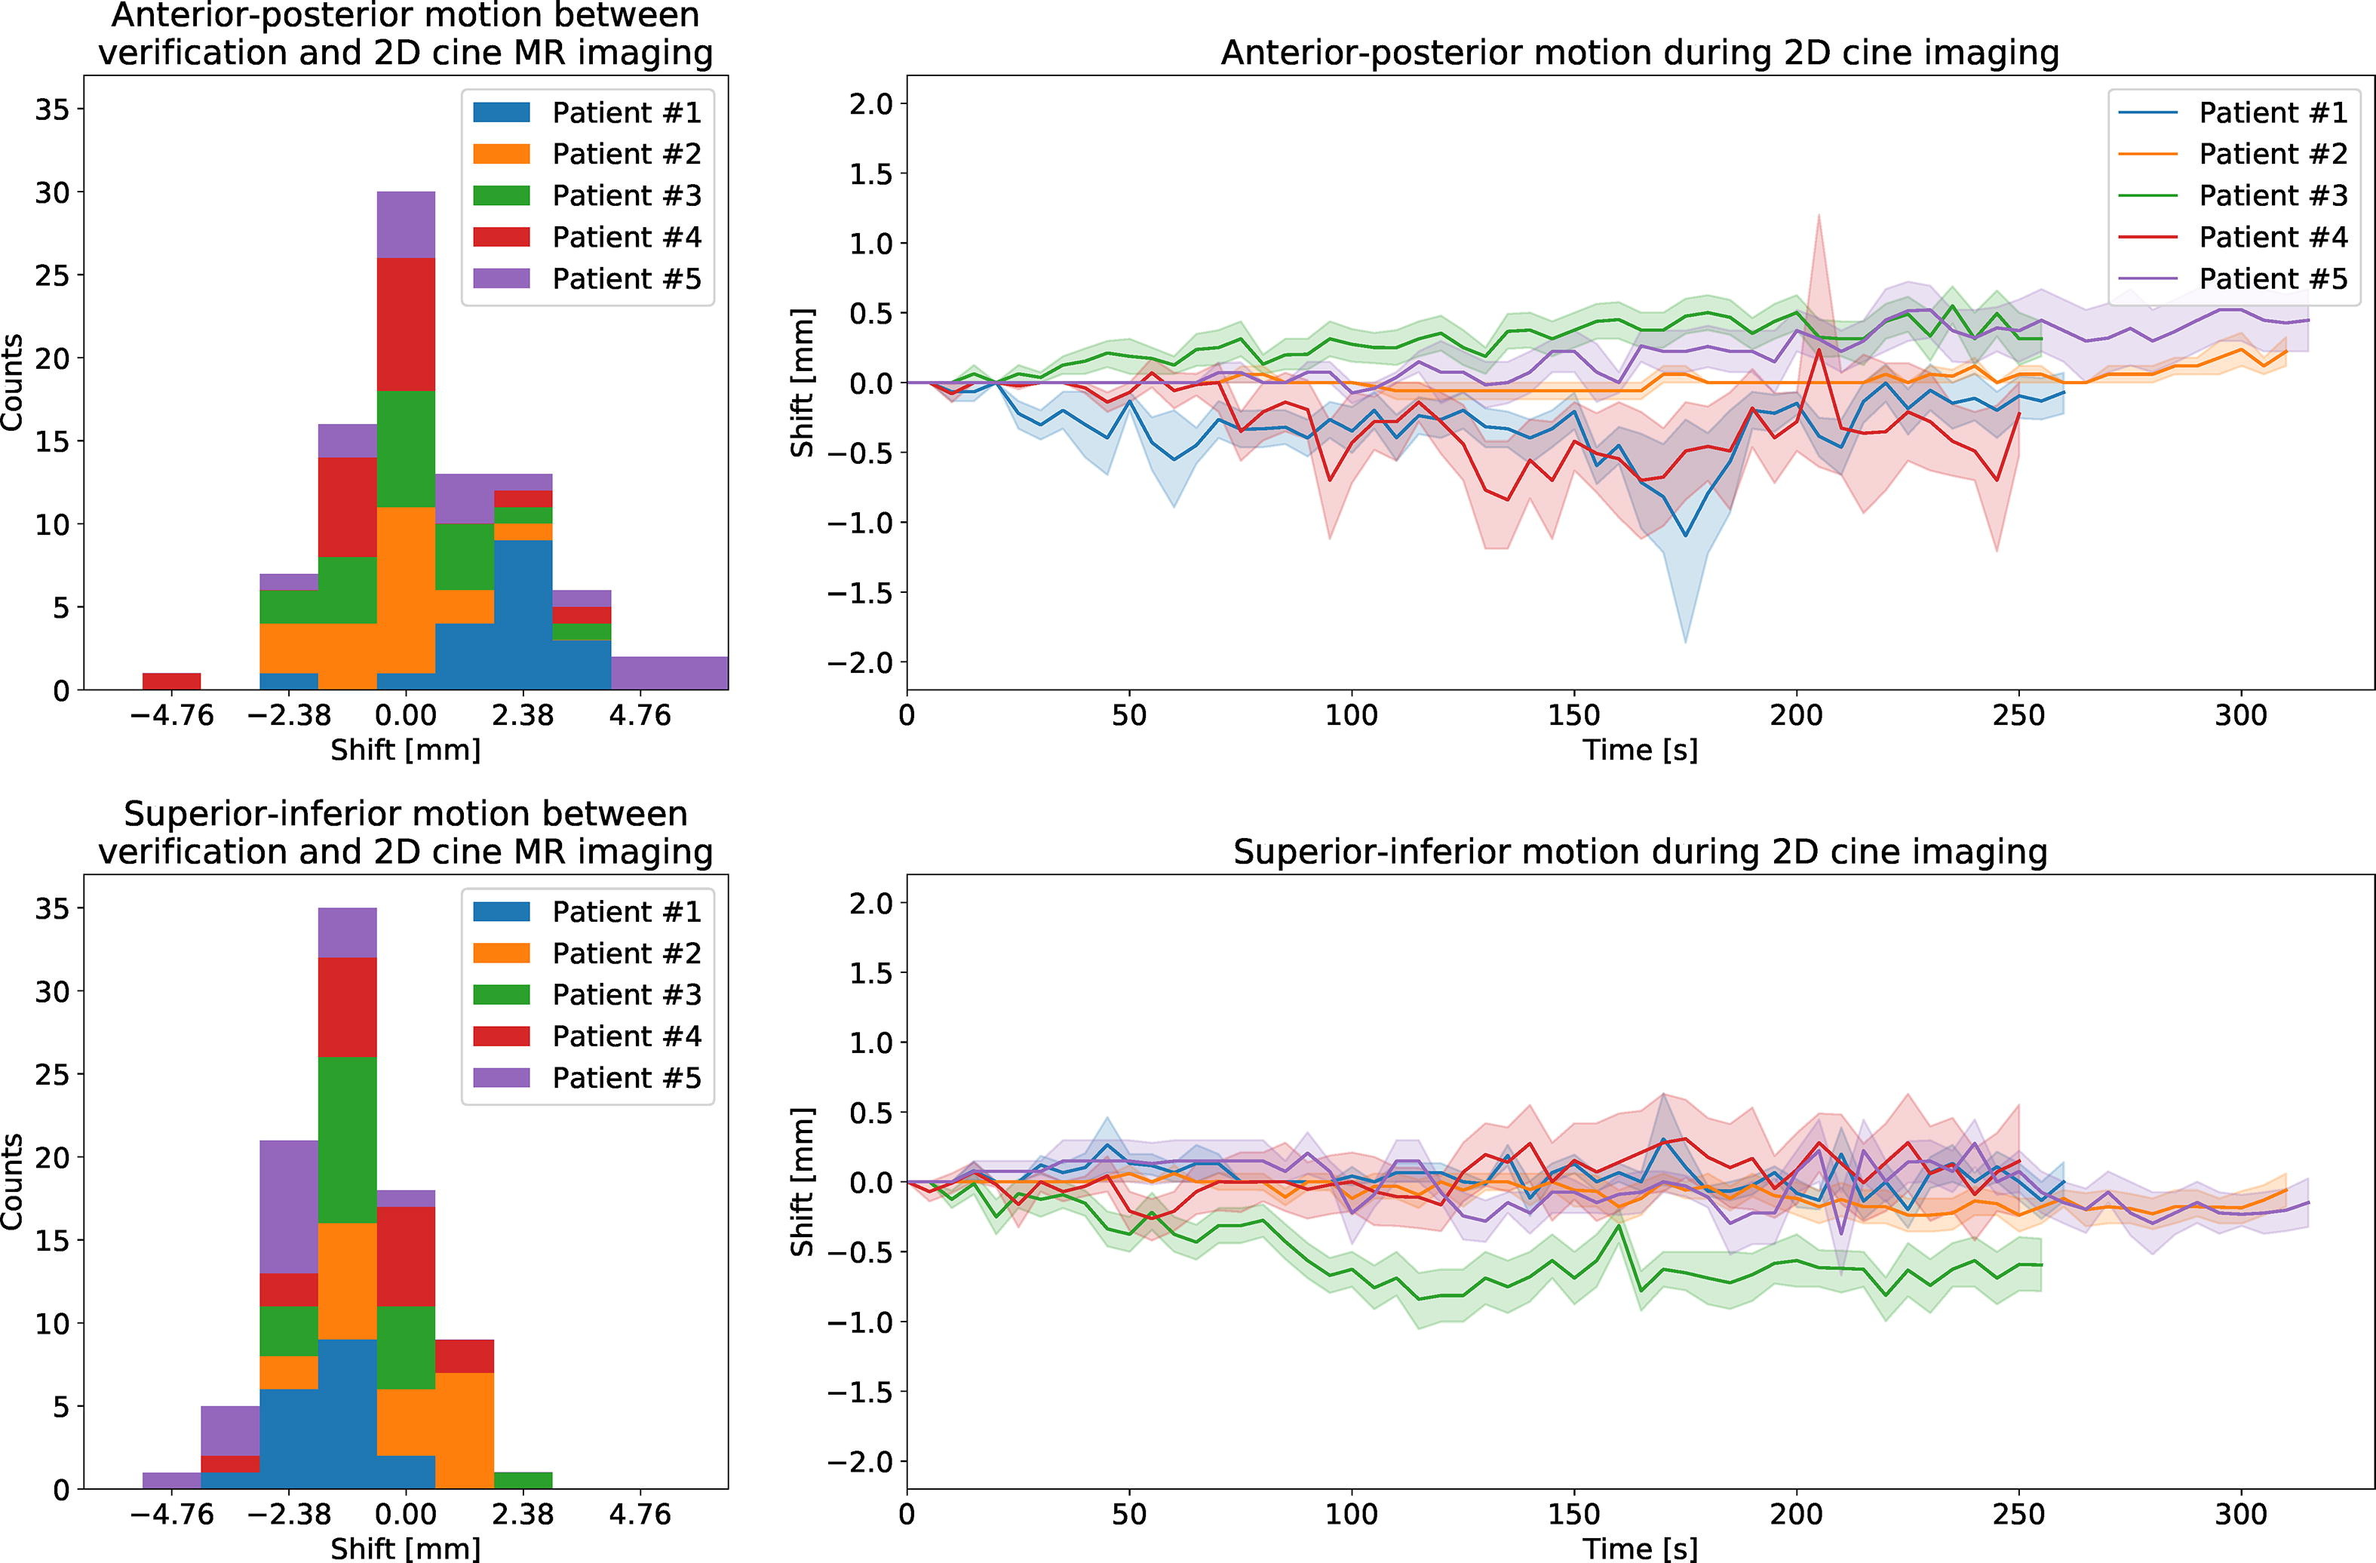
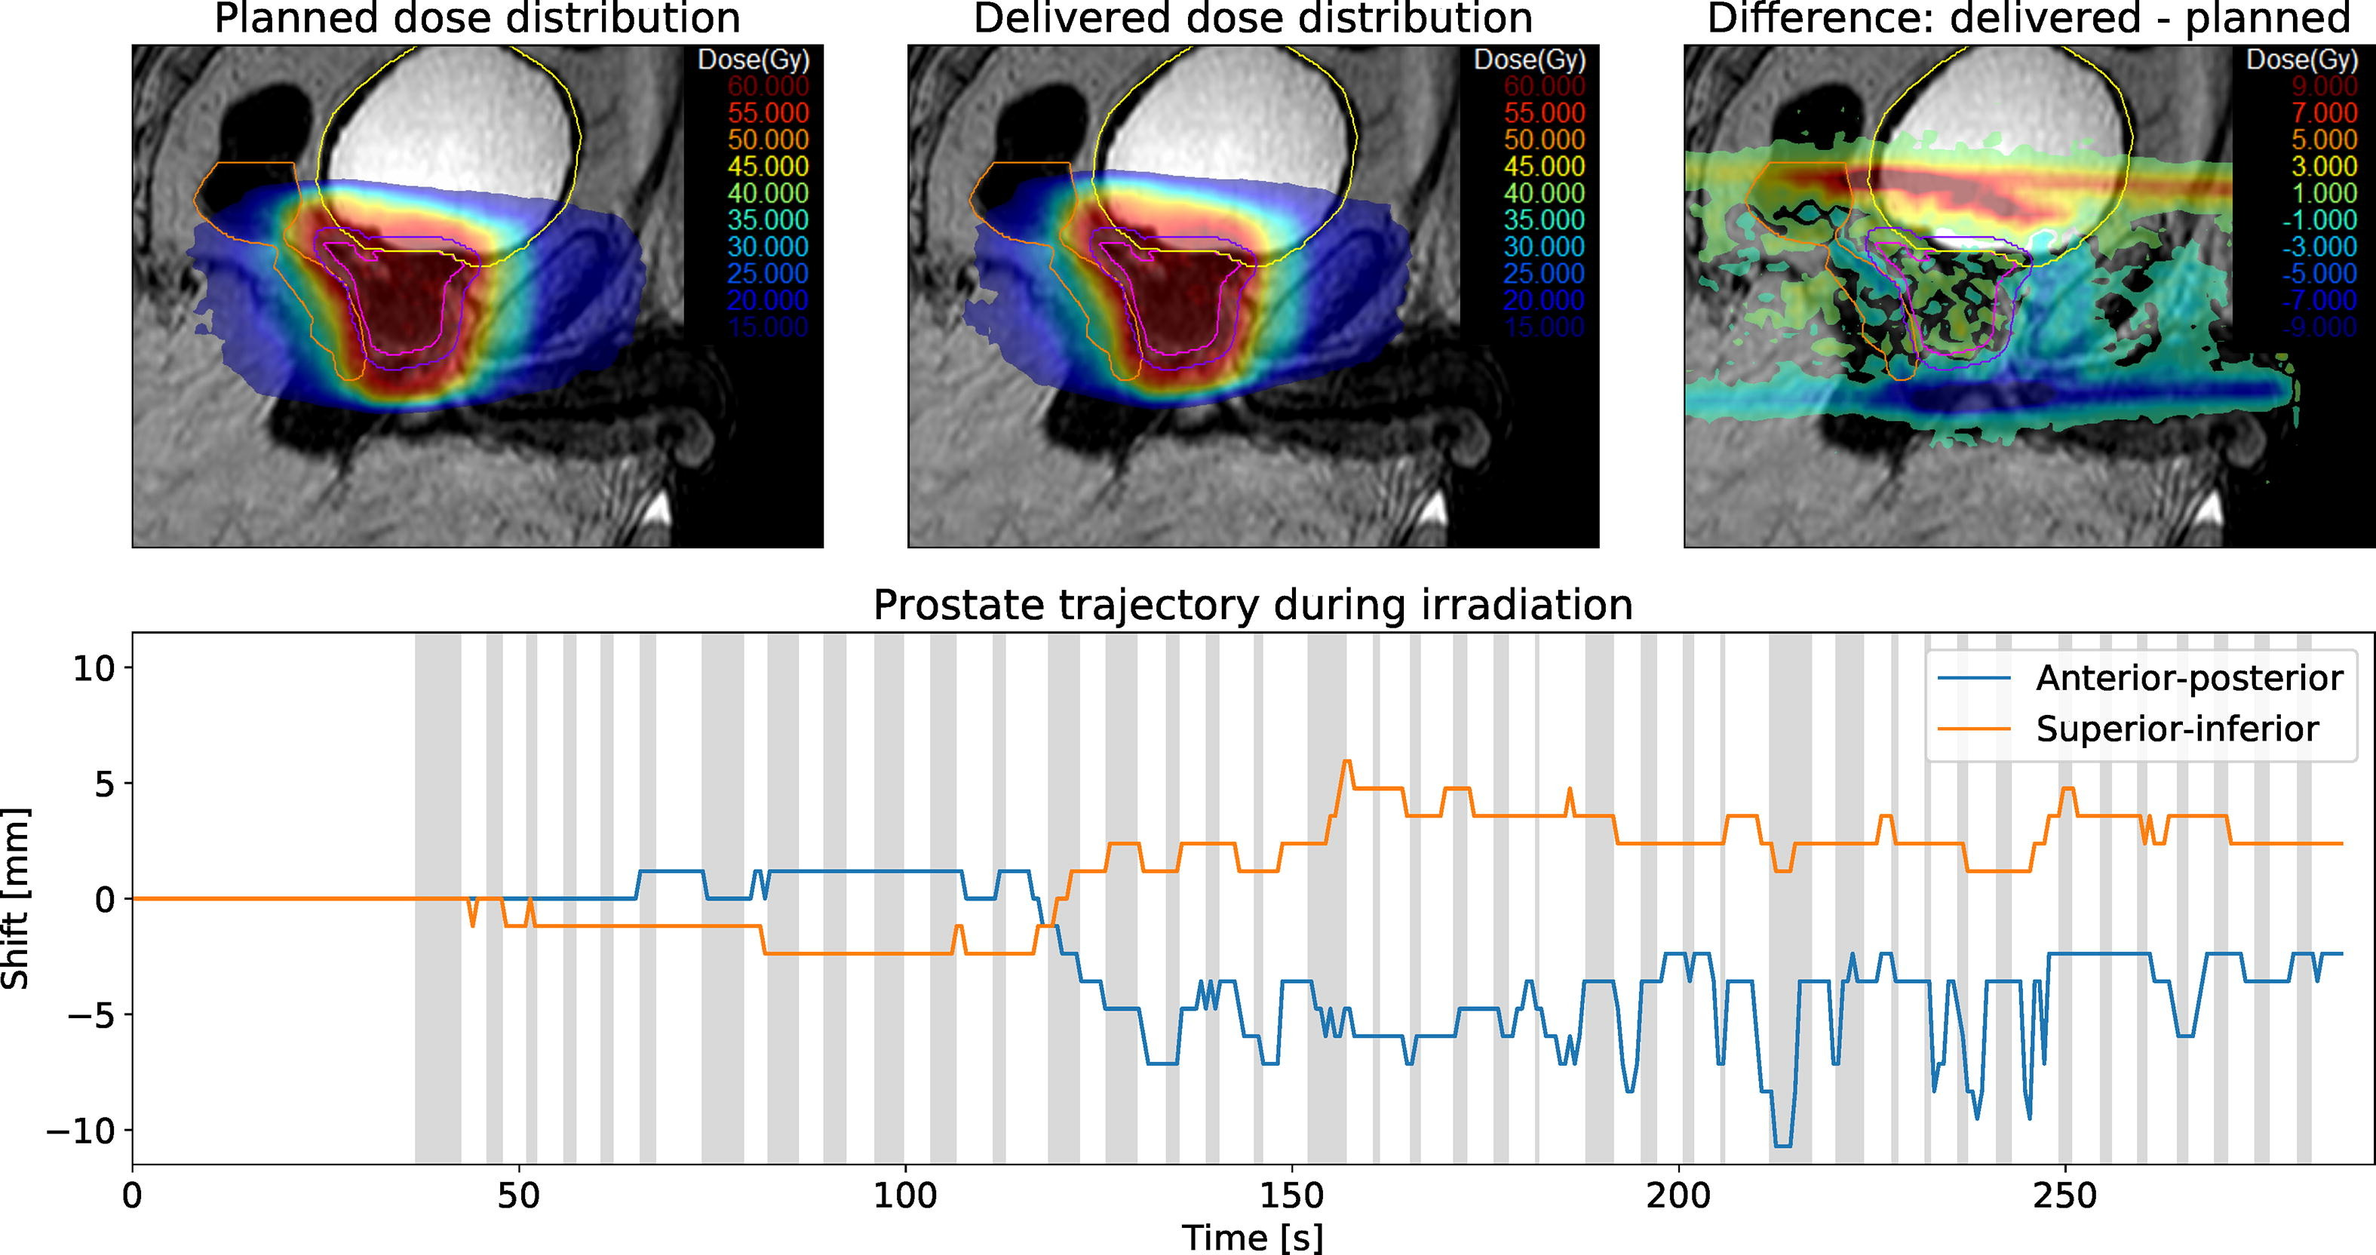
Changed thumbnail for ODR paper

diff --git a/publication/odr/index.html b/publication/odr/index.html
@@ -267,7 +267,7 @@
 
 
 <div class="article-header d-xl-none">
-  <div class="featured-image" style="background-image: url('/publication/odr/featured_hu5b59384a2cf87f456bf7e2cea176fa9d_575686_800x0_resize_q90_lanczos.jpg');"></div>
+  <div class="featured-image" style="background-image: url('/publication/odr/featured_huadb5ca2b95ba46d548337920db1a9f98_610724_800x0_resize_q90_lanczos.jpg');"></div>
   
 </div>
 

diff --git a/index.html b/index.html
@@ -678,7 +678,7 @@
       
       
       <a href="/publication/odr/" >
-        <img src="/publication/odr/featured_hu5b59384a2cf87f456bf7e2cea176fa9d_575686_540x0_resize_q90_lanczos.jpg" itemprop="image" alt="">
+        <img src="/publication/odr/featured_huadb5ca2b95ba46d548337920db1a9f98_610724_540x0_resize_q90_lanczos.jpg" itemprop="image" alt="">
       </a>
       
     </div>

diff --git a/publication/index.html b/publication/index.html
@@ -562,7 +562,7 @@
     
     
     <a href="/publication/odr/">
-      <img src="/publication/odr/featured_hu5b59384a2cf87f456bf7e2cea176fa9d_575686_150x0_resize_q90_lanczos.jpg" itemprop="image">
+      <img src="/publication/odr/featured_huadb5ca2b95ba46d548337920db1a9f98_610724_150x0_resize_q90_lanczos.jpg" itemprop="image">
     </a>
     
   </div>
